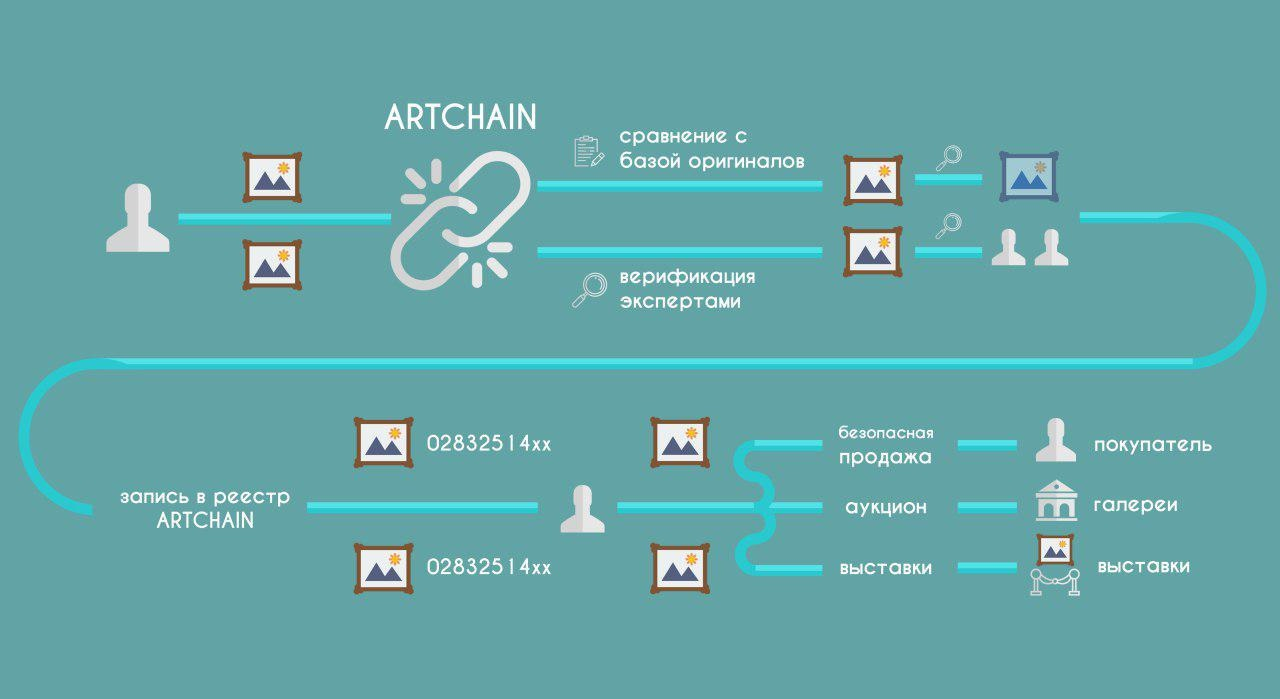
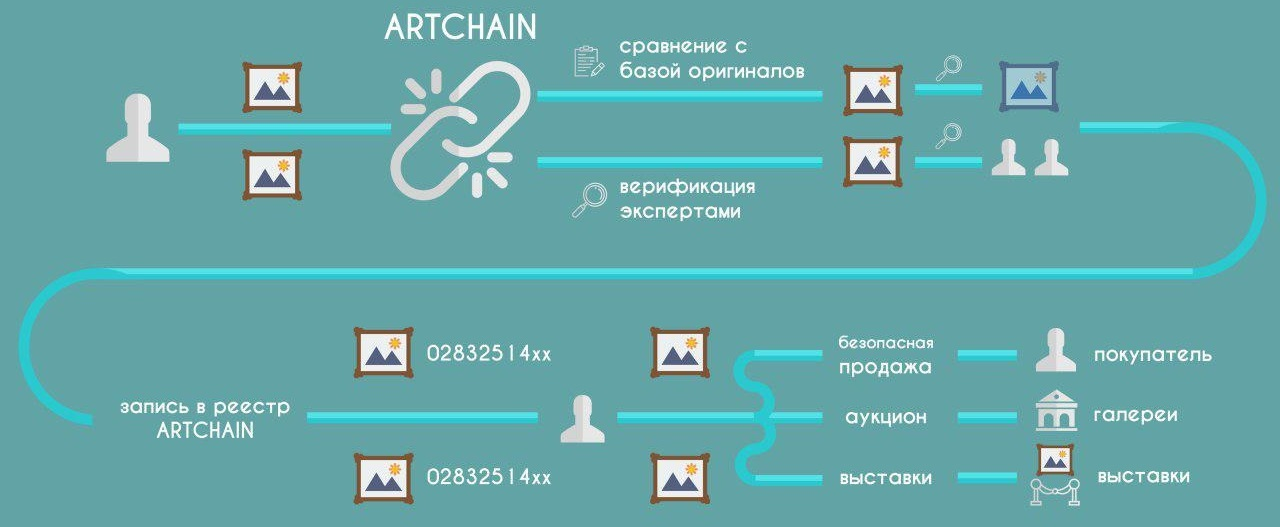
лого, шрифт, ярлык

diff --git a/ru/index.html b/ru/index.html
@@ -11,6 +11,9 @@
     <meta name="description" content="">
     <meta name="author" content="">    
     <link rel="shortcut icon" href="favicon.ico">  
+    <link href="https://fonts.googleapis.com/css?family=Amatic+SC:400,700" rel="stylesheet">
+    <link href="https://fonts.googleapis.com/css?family=Poiret+One&amp;subset=cyrillic" rel="stylesheet"> 
+
     <link href='https://fonts.googleapis.com/css?family=Roboto:400,300,500,300italic,400italic,500italic,700,700italic' rel='stylesheet' type='text/css'>
     <link href='https://fonts.googleapis.com/css?family=Noto+Sans:400,400italic,700,700italic' rel='stylesheet' type='text/css'>
     <!-- Global CSS -->
@@ -30,7 +33,9 @@
     <header id="header" class="header">  
         <div class="container menu">
             <h1 class="logo">
-                <a href="index.html"><img src="../assets/images/logo36-white.png" alt=""><span class="text">Artchain</span></a>
+                <a href="index.html"><img style="height: 36px;" src="../assets/images/logo.png" alt="">
+                    <!-- <span class="text">Artchain</span> -->
+                </a>
             </h1><!--//logo-->
             <nav class="main-nav navbar-right" role="navigation">
                 <div class="navbar-header">
@@ -105,7 +110,7 @@
         <div id="page-nav-wrapper" class="page-nav-wrapper text-center">
             <div class="container">
             	<a class="scrollto" href="#header">
-                    <img class="page-nav-logo" src="../assets/images/logo32-black.png" alt="">
+                    <img class="page-nav-logo" src="../assets/images/logo_b.png" alt="">
                 </a>
                 <ul id="page-nav" class="nav page-nav list-inline">
                     <li><a class="scrollto" href="#features-section">Подтверждение подлинности</a></li>
@@ -209,92 +214,6 @@
             </div><!--//container-->
         </div><!--//press-wrapper-->
     </section><!--//overview-section-->
-    
-    <div class="faqs-block" id="faqs-block">
-        <div class="container">
-            <h2 class="block-heading text-center">Часто задаваемые вопросы</h2>
-            <div class="row">
-                <div class="col-xs-12 col-sm-6">
-                    <div class="panel">
-                        <div class="panel-heading">
-                            <h4 class="panel-title"><a data-parent="#accordion" data-toggle="collapse" class="panel-toggle collapsed" href="#faq1" aria-expanded="false"><i class="fa fa-plus-square"></i>Как купить токены?</a></h4>
-                        </div>
-            
-                        <div class="panel-collapse collapse" id="faq1" aria-expanded="false" style="height: 0px;">
-                            <div class="panel-body">
-                                Продажа будет проходить посредством перевода средств на адрес смартконтракта. Подробные инструкции мы предоставим непосредственно перед началом ICO.
-                            </div>
-                        </div>
-                    </div><!--//panel-->
-            
-                    <div class="panel">
-                        <div class="panel-heading">
-                            <h4 class="panel-title"><a data-parent="#accordion" data-toggle="collapse" class="panel-toggle" href="#faq2"><i class="fa fa-plus-square"></i>На какую доходность можно рассчитывать?</a></h4>
-                        </div>
-            
-                        <div class="panel-collapse collapse" id="faq2">
-                            <div class="panel-body">
-                                С учетом быстрого роста капитализации крипторынка, по консервативным оценкам наших экспертов, ориентировочный годовой доход фонда будет варьироваться от 500 до 1000% в год.
-                            </div>
-                        </div>
-                    </div><!--//panel-->
-                   
-                    <div class="panel">
-                        <div class="panel-heading">
-                            <h4 class="panel-title"><a data-parent="#accordion" data-toggle="collapse" class="panel-toggle" href="#faq3"><i class="fa fa-plus-square"></i>За счёт чего предполагается рост цены токена?</a></h4>
-                        </div>
-            
-                        <div class="panel-collapse collapse" id="faq3">
-                            <div class="panel-body">
-                                При активном пополнении базы нам потребуется делать buy back с биржи по текущим рыночным ценам, чтобы выплачивать вознагражение нашим контрибьюторам. Это всегда поднимает цену.
-                            </div>
-                        </div>
-                    </div><!--//panel-->
-
-                </div>
-                <div class="col-xs-12 col-sm-6">
-                    <div class="panel">
-                        <div class="panel-heading">
-                            <h4 class="panel-title"><a data-parent="#accordion" data-toggle="collapse" class="panel-toggle" href="#faq4"><i class="fa fa-plus-square"></i>Почему это выгоднее, чем самостоятельно участвовать в ICO?</a></h4>
-                        </div>
-            
-                        <div class="panel-collapse collapse" id="faq4">
-                            <div class="panel-body">
-                                Мы отбираем для инвестиций только самые доходные проекты, которые зачастую недоступны для самостоятельных инвестиций.
-                            </div>
-                        </div>
-                    </div><!--//panel-->
-
-                    <div class="panel">
-                        <div class="panel-heading">
-                            <h4 class="panel-title"><a data-parent="#accordion" data-toggle="collapse" class="panel-toggle" href="#faq5"><i class="fa fa-plus-square"></i>Какие криптовалюты принимаются?</a></h4>
-                        </div>
-            
-                        <div class="panel-collapse collapse" id="faq5">
-                            <div class="panel-body">
-                                Платежи будут приниматься в Ethereum.
-                            </div>
-                        </div>
-                    </div><!--//panel-->
-
-                    <div class="panel">
-                        <div class="panel-heading">
-                            <h4 class="panel-title"><a data-parent="#accordion" data-toggle="collapse" class="panel-toggle" href="#faq6"><i class="fa fa-plus-square"></i>Кто может принять участие в ICO?</a></h4>
-                        </div>
-            
-                        <div class="panel-collapse collapse" id="faq6">
-                            <div class="panel-body">
-                                В публичном токенсейле могут принимать участие все, кроме граждан Сингапура, США и подконтрольных им территорий.
-                            </div>
-                        </div>
-                    </div><!--//panel-->
-            
-                </div>
-            </div><!--//row-->
-
-        </div>
-    </div><!--//faqs-block-->
-
 
     <section id="cases-section" class="features-section section">
         <!--<h2 class="section-title">
@@ -439,6 +358,91 @@
             </div><!--//container-->
         </div><!--//team-block-->
     </section>
+
+    <div class="faqs-block" id="faqs-block">
+        <div class="container">
+            <h2 class="block-heading text-center">Часто задаваемые вопросы</h2>
+            <div class="row">
+                <div class="col-xs-12 col-sm-6">
+                    <div class="panel">
+                        <div class="panel-heading">
+                            <h4 class="panel-title"><a data-parent="#accordion" data-toggle="collapse" class="panel-toggle collapsed" href="#faq1" aria-expanded="false"><i class="fa fa-plus-square"></i>Как купить токены?</a></h4>
+                        </div>
+            
+                        <div class="panel-collapse collapse" id="faq1" aria-expanded="false" style="height: 0px;">
+                            <div class="panel-body">
+                                Продажа будет проходить посредством перевода средств на адрес смартконтракта. Подробные инструкции мы предоставим непосредственно перед началом ICO.
+                            </div>
+                        </div>
+                    </div><!--//panel-->
+            
+                    <div class="panel">
+                        <div class="panel-heading">
+                            <h4 class="panel-title"><a data-parent="#accordion" data-toggle="collapse" class="panel-toggle" href="#faq2"><i class="fa fa-plus-square"></i>На какую доходность можно рассчитывать?</a></h4>
+                        </div>
+            
+                        <div class="panel-collapse collapse" id="faq2">
+                            <div class="panel-body">
+                                С учетом быстрого роста капитализации крипторынка, по консервативным оценкам наших экспертов, ориентировочный годовой доход фонда будет варьироваться от 500 до 1000% в год.
+                            </div>
+                        </div>
+                    </div><!--//panel-->
+                   
+                    <div class="panel">
+                        <div class="panel-heading">
+                            <h4 class="panel-title"><a data-parent="#accordion" data-toggle="collapse" class="panel-toggle" href="#faq3"><i class="fa fa-plus-square"></i>За счёт чего предполагается рост цены токена?</a></h4>
+                        </div>
+            
+                        <div class="panel-collapse collapse" id="faq3">
+                            <div class="panel-body">
+                                При активном пополнении базы нам потребуется делать buy back с биржи по текущим рыночным ценам, чтобы выплачивать вознагражение нашим контрибьюторам. Это всегда поднимает цену.
+                            </div>
+                        </div>
+                    </div><!--//panel-->
+
+                </div>
+                <div class="col-xs-12 col-sm-6">
+                    <div class="panel">
+                        <div class="panel-heading">
+                            <h4 class="panel-title"><a data-parent="#accordion" data-toggle="collapse" class="panel-toggle" href="#faq4"><i class="fa fa-plus-square"></i>Почему это выгоднее, чем самостоятельно участвовать в ICO?</a></h4>
+                        </div>
+            
+                        <div class="panel-collapse collapse" id="faq4">
+                            <div class="panel-body">
+                                Мы отбираем для инвестиций только самые доходные проекты, которые зачастую недоступны для самостоятельных инвестиций.
+                            </div>
+                        </div>
+                    </div><!--//panel-->
+
+                    <div class="panel">
+                        <div class="panel-heading">
+                            <h4 class="panel-title"><a data-parent="#accordion" data-toggle="collapse" class="panel-toggle" href="#faq5"><i class="fa fa-plus-square"></i>Какие криптовалюты принимаются?</a></h4>
+                        </div>
+            
+                        <div class="panel-collapse collapse" id="faq5">
+                            <div class="panel-body">
+                                Платежи будут приниматься в Ethereum.
+                            </div>
+                        </div>
+                    </div><!--//panel-->
+
+                    <div class="panel">
+                        <div class="panel-heading">
+                            <h4 class="panel-title"><a data-parent="#accordion" data-toggle="collapse" class="panel-toggle" href="#faq6"><i class="fa fa-plus-square"></i>Кто может принять участие в ICO?</a></h4>
+                        </div>
+            
+                        <div class="panel-collapse collapse" id="faq6">
+                            <div class="panel-body">
+                                В публичном токенсейле могут принимать участие все, кроме граждан Сингапура, США и подконтрольных им территорий.
+                            </div>
+                        </div>
+                    </div><!--//panel-->
+            
+                </div>
+            </div><!--//row-->
+
+        </div>
+    </div><!--//faqs-block-->
 
     <!-- ICO Details -->
     <section id="details-section">

diff --git a/assets/css/custom-styles.css b/assets/css/custom-styles.css
@@ -2,8 +2,44 @@
 svg path {
     fill: #ffffff;
 }
+body {
+  font-family: 'Poiret One', sans-serif;
+  font-size: 16px;
+}
+h1,
+h2,
+h3,
+h4,
+h5,
+h6 {
+  font-family: 'Amatic SC', sans-serif;
+  font-weight: 700;
+}
+.quote-item .quote {
+  font-weight: lighter;
+  font-style: italic;
+  font-family: 'Amatic SC', sans-serif;
+}
+.story-article-block .quote-container .quote {
+  font-size: 28px;
+  font-family: 'Amatic SC', sans-serif;
+  font-weight: 700;
+}
+.pricing-block .number {
+  font-size: 46px;
+  font-family: 'Amatic SC', sans-serif;
+  font-weight: 700;
+}
+.post-single-block .blog-quote {
+  font-family: 'Amatic SC', sans-serif;
+  font-weight: 400;
+  font-size: 24px;
+  font-style: italic;
+}
+
 .page-nav-logo {
 	padding-right: 80px;
+    height: 36px;
 }
 
 .container .menu {
@@ -78,7 +114,10 @@ div#clock {
     color: #ffffff;
 }
 */
-.figures-wrapper, .faqs-block, .overview-section, .features-section, .benefits-wrapper {
+#distribution-section {
+    background: #f5f5f5;
+}
+.figures-wrapper, .faqs-block, .overview-section, .features-section, .benefits-wrapper, .blog-signup-block {
     background: #62a3a5;
     color: #ffffff;
 }
